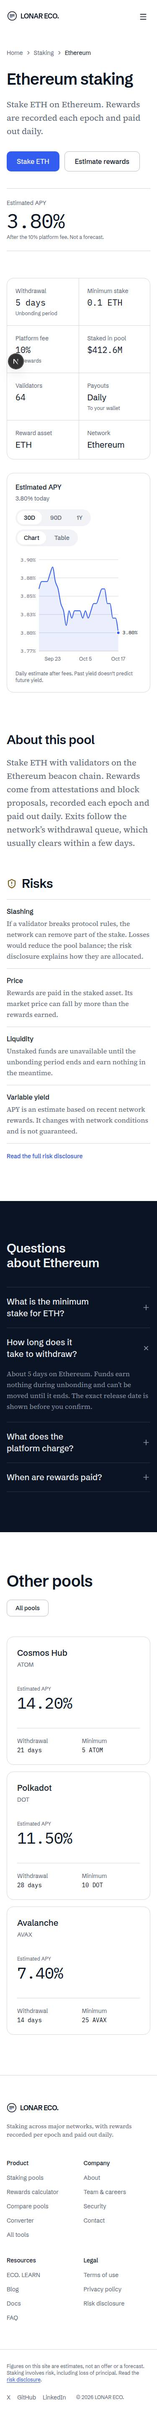
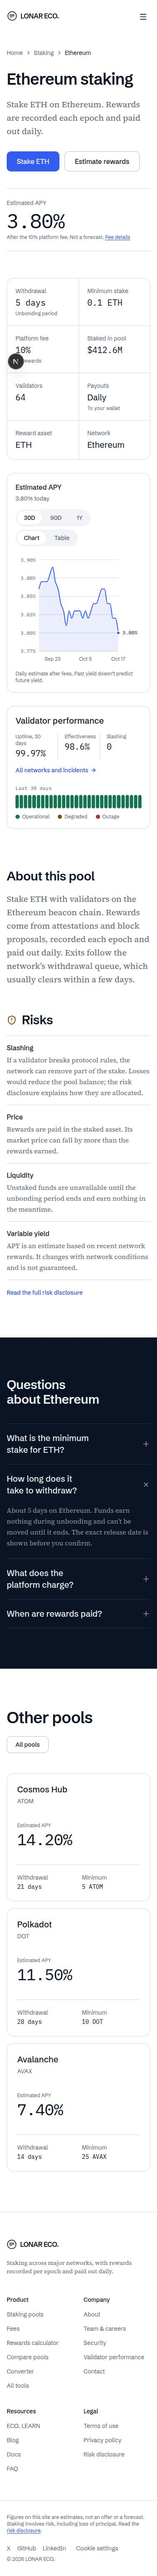
Link pool pages and security to validator performance and fees
- Pool pages: validator performance card (30-day uptime, effectiveness, slashing,
  90-day strip) and a fee details link beside the APY
- Security: incident stats with a link to the reviews; slashing FAQ links both pages
- Validator counts now come from the pool data (were duplicated and inconsistent)

diff --git a/src/components/staking/PoolDetail.tsx b/src/components/staking/PoolDetail.tsx
@@ -1,13 +1,15 @@
-import { ShieldAlert } from "lucide-react";
+import { ArrowRight, ShieldAlert } from "lucide-react";
 import { Link } from "@/components/Link";
 import { Accordion, Badge, Skeleton, buttonClasses } from "@/design-system";
 import { POOL_RISKS, pools, type Pool } from "@/data/pools";
+import { NETWORK_PERFORMANCE, uptimeHistory } from "@/data/validators";
 import { formatCompactCurrency, formatPercent, formatUnbonding } from "@/lib/format";
 import { apyHistory } from "@/lib/series";
 import { PageHeader } from "../blocks/PageHeader";
 import { PoolCard } from "../blocks/PoolCard";
 import { Section, SectionHeader } from "../blocks/Section";
 import { TimeSeriesChart } from "../charts/TimeSeriesChart";
+import { StatusLegend, UptimeStrip } from "../validators/UptimeStrip";
 
 function poolFaq(pool: Pool) {
   return [
@@ -48,7 +50,11 @@ export function PoolDetail({ pool }: { pool: Pool }) {
     { label: "Reward asset", value: pool.ticker },
     { label: "Network", value: pool.network },
   ];
-  const others = pools.filter((p) => p.id !== pool.id).sort((a, b) => b.apy - a.apy).slice(0, 3);
+  const performance = NETWORK_PERFORMANCE.find((n) => n.poolId === pool.id);
+  const others = pools
+    .filter((p) => p.id !== pool.id)
+    .sort((a, b) => b.apy - a.apy)
+    .slice(0, 3);
 
   return (
     <>
@@ -63,7 +69,12 @@ export function PoolDetail({ pool }: { pool: Pool }) {
               {pool.unbondingDays === 0 && <Badge tone="success">No lock-up</Badge>}
             </div>
             <p className="font-mono text-display tracking-tight">{formatPercent(pool.apy)}</p>
-            <p className="text-caption text-muted">After the {pool.feePercent}% platform fee. Not a forecast.</p>
+            <p className="text-caption text-muted">
+              After the {pool.feePercent}% platform fee. Not a forecast.{" "}
+              <Link href="/fees" className="rounded-sm text-accent-text underline underline-offset-2">
+                Fee details
+              </Link>
+            </p>
           </div>
         }
       >
@@ -109,6 +120,41 @@ export function PoolDetail({ pool }: { pool: Pool }) {
           note="Daily estimate after fees. Past yield doesn’t predict future yield."
         />
       </section>
+
+      {performance && (
+        <section aria-labelledby={`${pool.id}-validators-title`} className="container-page mt-8">
+          <div className="grid gap-6 rounded-card border border-rule bg-surface p-5 md:p-6 lg:grid-cols-[minmax(0,1fr)_minmax(0,1.4fr)] lg:items-center lg:gap-10">
+            <div>
+              <h2 id={`${pool.id}-validators-title`} className="text-h4 font-medium">
+                Validator performance
+              </h2>
+              <dl className="mt-4 grid grid-cols-3 text-small">
+                {[
+                  ["Uptime, 30 days", `${performance.uptime30d.toFixed(2)}%`],
+                  ["Effectiveness", `${performance.effectiveness.toFixed(1)}%`],
+                  ["Slashing", String(performance.slashingEvents)],
+                ].map(([label, value], i) => (
+                  <div key={label} className={i > 0 ? "border-l border-rule pl-4" : "pr-4"}>
+                    <dt className="text-caption text-muted">{label}</dt>
+                    <dd className="mt-0.5 font-mono text-h4">{value}</dd>
+                  </div>
+                ))}
+              </dl>
+              <Link
+                href="/validators"
+                className="mt-4 inline-flex items-center gap-1 rounded-sm text-small font-medium text-accent-text hover:underline"
+              >
+                All networks and incidents
+                <ArrowRight aria-hidden className="size-4" />
+              </Link>
+            </div>
+            <div className="flex flex-col gap-3">
+              <UptimeStrip days={uptimeHistory(pool.id)} label={`${pool.name} validators`} />
+              <StatusLegend />
+            </div>
+          </div>
+        </section>
+      )}
 
       <Section labelledBy={`${pool.id}-about-pool-title`}>
         <div className="grid gap-16 lg:grid-cols-2 lg:gap-12">

diff --git a/src/app/(site)/security/page.tsx b/src/app/(site)/security/page.tsx
@@ -1,11 +1,13 @@
-import { Mail } from "lucide-react";
+import { ArrowRight, Mail } from "lucide-react";
 import type { Metadata } from "next";
 import { ControlsList } from "@/components/blocks/ControlsList";
 import { PageHeader } from "@/components/blocks/PageHeader";
 import { Section, SectionHeader } from "@/components/blocks/Section";
 import { StepsFlow } from "@/components/blocks/StepsFlow";
-import { Accordion, Badge, TBody, TD, TH, THead, TR, Table } from "@/design-system";
+import { Link } from "@/components/Link";
+import { Accordion, Badge, TBody, TD, TH, THead, TR, Table, buttonClasses } from "@/design-system";
 import { BOUNTY_SEVERITIES, CUSTODY_PRACTICES, INCIDENT_STEPS, SECURITY_CONTROLS } from "@/data/security";
+import { INCIDENTS, NETWORK_PERFORMANCE } from "@/data/validators";
 
 export const metadata: Metadata = {
   title: "Security",
@@ -30,8 +32,20 @@ const FAQ = [
   {
     id: "slashing",
     title: "What happens if a validator is slashed?",
-    content:
-      "The penalty reduces the balance of the affected pool. We publish an incident review explaining the cause and the impact on each staker.",
+    content: (
+      <>
+        The penalty reduces the balance of the affected pool. We publish an incident review explaining the cause and the
+        impact on each staker. Past reviews and live uptime are on the{" "}
+        <Link href="/validators" className="rounded-sm text-accent-text underline underline-offset-2">
+          validator performance
+        </Link>{" "}
+        page; penalties never carry a platform fee (see{" "}
+        <Link href="/fees" className="rounded-sm text-accent-text underline underline-offset-2">
+          fees
+        </Link>
+        ).
+      </>
+    ),
   },
   {
     id: "account",
@@ -84,6 +98,26 @@ export default function SecurityPage() {
           lead="Every incident follows the same four steps, and every one ends with a written review."
         />
         <StepsFlow steps={INCIDENT_STEPS} />
+        <div className="mt-12 flex flex-col gap-6 rounded-card border border-rule bg-surface p-6 md:flex-row md:items-center md:justify-between md:p-8">
+          <dl className="grid grid-cols-3 gap-6 md:gap-10">
+            {[
+              ["Incidents, 90 days", String(INCIDENTS.length)],
+              ["Longest", `${Math.max(...INCIDENTS.map((i) => i.durationMinutes))} min`],
+              ["Slashing events", String(NETWORK_PERFORMANCE.reduce((sum, n) => sum + n.slashingEvents, 0))],
+            ].map(([label, value]) => (
+              <div key={label}>
+                <dt className="text-caption text-muted">{label}</dt>
+                <dd className="mt-1 font-mono text-h3">{value}</dd>
+              </div>
+            ))}
+          </dl>
+          <div className="flex flex-wrap gap-3">
+            <Link href="/validators" className={buttonClasses({ variant: "secondary" })}>
+              Read the incident reviews
+              <ArrowRight aria-hidden />
+            </Link>
+          </div>
+        </div>
       </Section>
 
       <Section id="bug-bounty" tone="inverse" labelledBy="bounty-title" className="scroll-mt-20">

diff --git a/src/data/validators.ts b/src/data/validators.ts
@@ -1,13 +1,12 @@
 import { DEMO_TODAY } from "@/lib/series";
 
-/* Validator performance for /validators. Fictional figures; incidents match the Q3 report in data/posts.ts. */
+/* Validator performance for /validators. Fictional figures; validator counts live on the pools in data/pools.ts, incidents match the Q3 report in data/posts.ts. */
 
 export type DayStatus = "operational" | "degraded" | "outage";
 
 export type NetworkPerformance = {
   poolId: string;
   network: string;
-  validators: number;
   /** Stake-weighted uptime over the last 30 days, % */
   uptime30d: number;
   /** Share of assigned duties performed on time over 30 days, % */
@@ -24,7 +23,6 @@ export const NETWORK_PERFORMANCE: NetworkPerformance[] = [
   {
     poolId: "eth",
     network: "Ethereum",
-    validators: 1240,
     uptime30d: 99.97,
     effectiveness: 98.6,
     missedLabel: "Missed attestations",
@@ -36,7 +34,6 @@ export const NETWORK_PERFORMANCE: NetworkPerformance[] = [
   {
     poolId: "sol",
     network: "Solana",
-    validators: 6,
     uptime30d: 99.95,
     effectiveness: 97.9,
     missedLabel: "Skipped slots",
@@ -48,7 +45,6 @@ export const NETWORK_PERFORMANCE: NetworkPerformance[] = [
   {
     poolId: "atom",
     network: "Cosmos Hub",
-    validators: 3,
     uptime30d: 99.99,
     effectiveness: 99.8,
     missedLabel: "Missed blocks",
@@ -60,7 +56,6 @@ export const NETWORK_PERFORMANCE: NetworkPerformance[] = [
   {
     poolId: "dot",
     network: "Polkadot",
-    validators: 8,
     uptime30d: 99.93,
     effectiveness: 98.9,
     missedLabel: "Missed blocks",
@@ -72,7 +67,6 @@ export const NETWORK_PERFORMANCE: NetworkPerformance[] = [
   {
     poolId: "avax",
     network: "Avalanche",
-    validators: 4,
     uptime30d: 99.98,
     effectiveness: 99.6,
     missedLabel: "Missed responses",
@@ -84,7 +78,6 @@ export const NETWORK_PERFORMANCE: NetworkPerformance[] = [
   {
     poolId: "ada",
     network: "Cardano",
-    validators: 5,
     uptime30d: 99.99,
     effectiveness: 99.7,
     missedLabel: "Missed block slots",
@@ -114,7 +107,7 @@ export const INCIDENTS: Incident[] = [
     title: "Slow resync after a runtime upgrade",
     severity: "degraded",
     durationMinutes: 12,
-    stakeShare: 0.25,
+    stakeShare: 2 / 16,
     impact: "Two validators missed block production while their databases caught up. Rewards for the day were about 0.01% lower.",
     fix: "Snapshots are now taken before every runtime upgrade so a node can restart from a recent state.",
   },

diff --git a/src/app/(site)/validators/page.tsx b/src/app/(site)/validators/page.tsx
@@ -16,7 +16,7 @@ export const metadata: Metadata = {
     "Uptime, duty effectiveness, missed duties, client mix and incidents for every network LONAR ECO. validates on.",
 };
 
-const totalValidators = NETWORK_PERFORMANCE.reduce((sum, n) => sum + n.validators, 0);
+const totalValidators = NETWORK_PERFORMANCE.reduce((sum, n) => sum + (getPool(n.poolId)?.validators ?? 0), 0);
 const averageUptime = NETWORK_PERFORMANCE.reduce((sum, n) => sum + n.uptime30d, 0) / NETWORK_PERFORMANCE.length;
 const slashing = NETWORK_PERFORMANCE.reduce((sum, n) => sum + n.slashingEvents, 0);
 
@@ -89,7 +89,7 @@ export default function ValidatorsPage() {
                         {n.network}
                       </h3>
                       <p className="mt-0.5 text-small text-muted">
-                        {formatNumber(n.validators)} {n.validators === 1 ? "validator" : "validators"},{" "}
+                        {pool && `${formatNumber(pool.validators)} ${pool.validators === 1 ? "validator" : "validators"}, `}
                         {n.regions.join(", ")}
                       </p>
                     </div>
